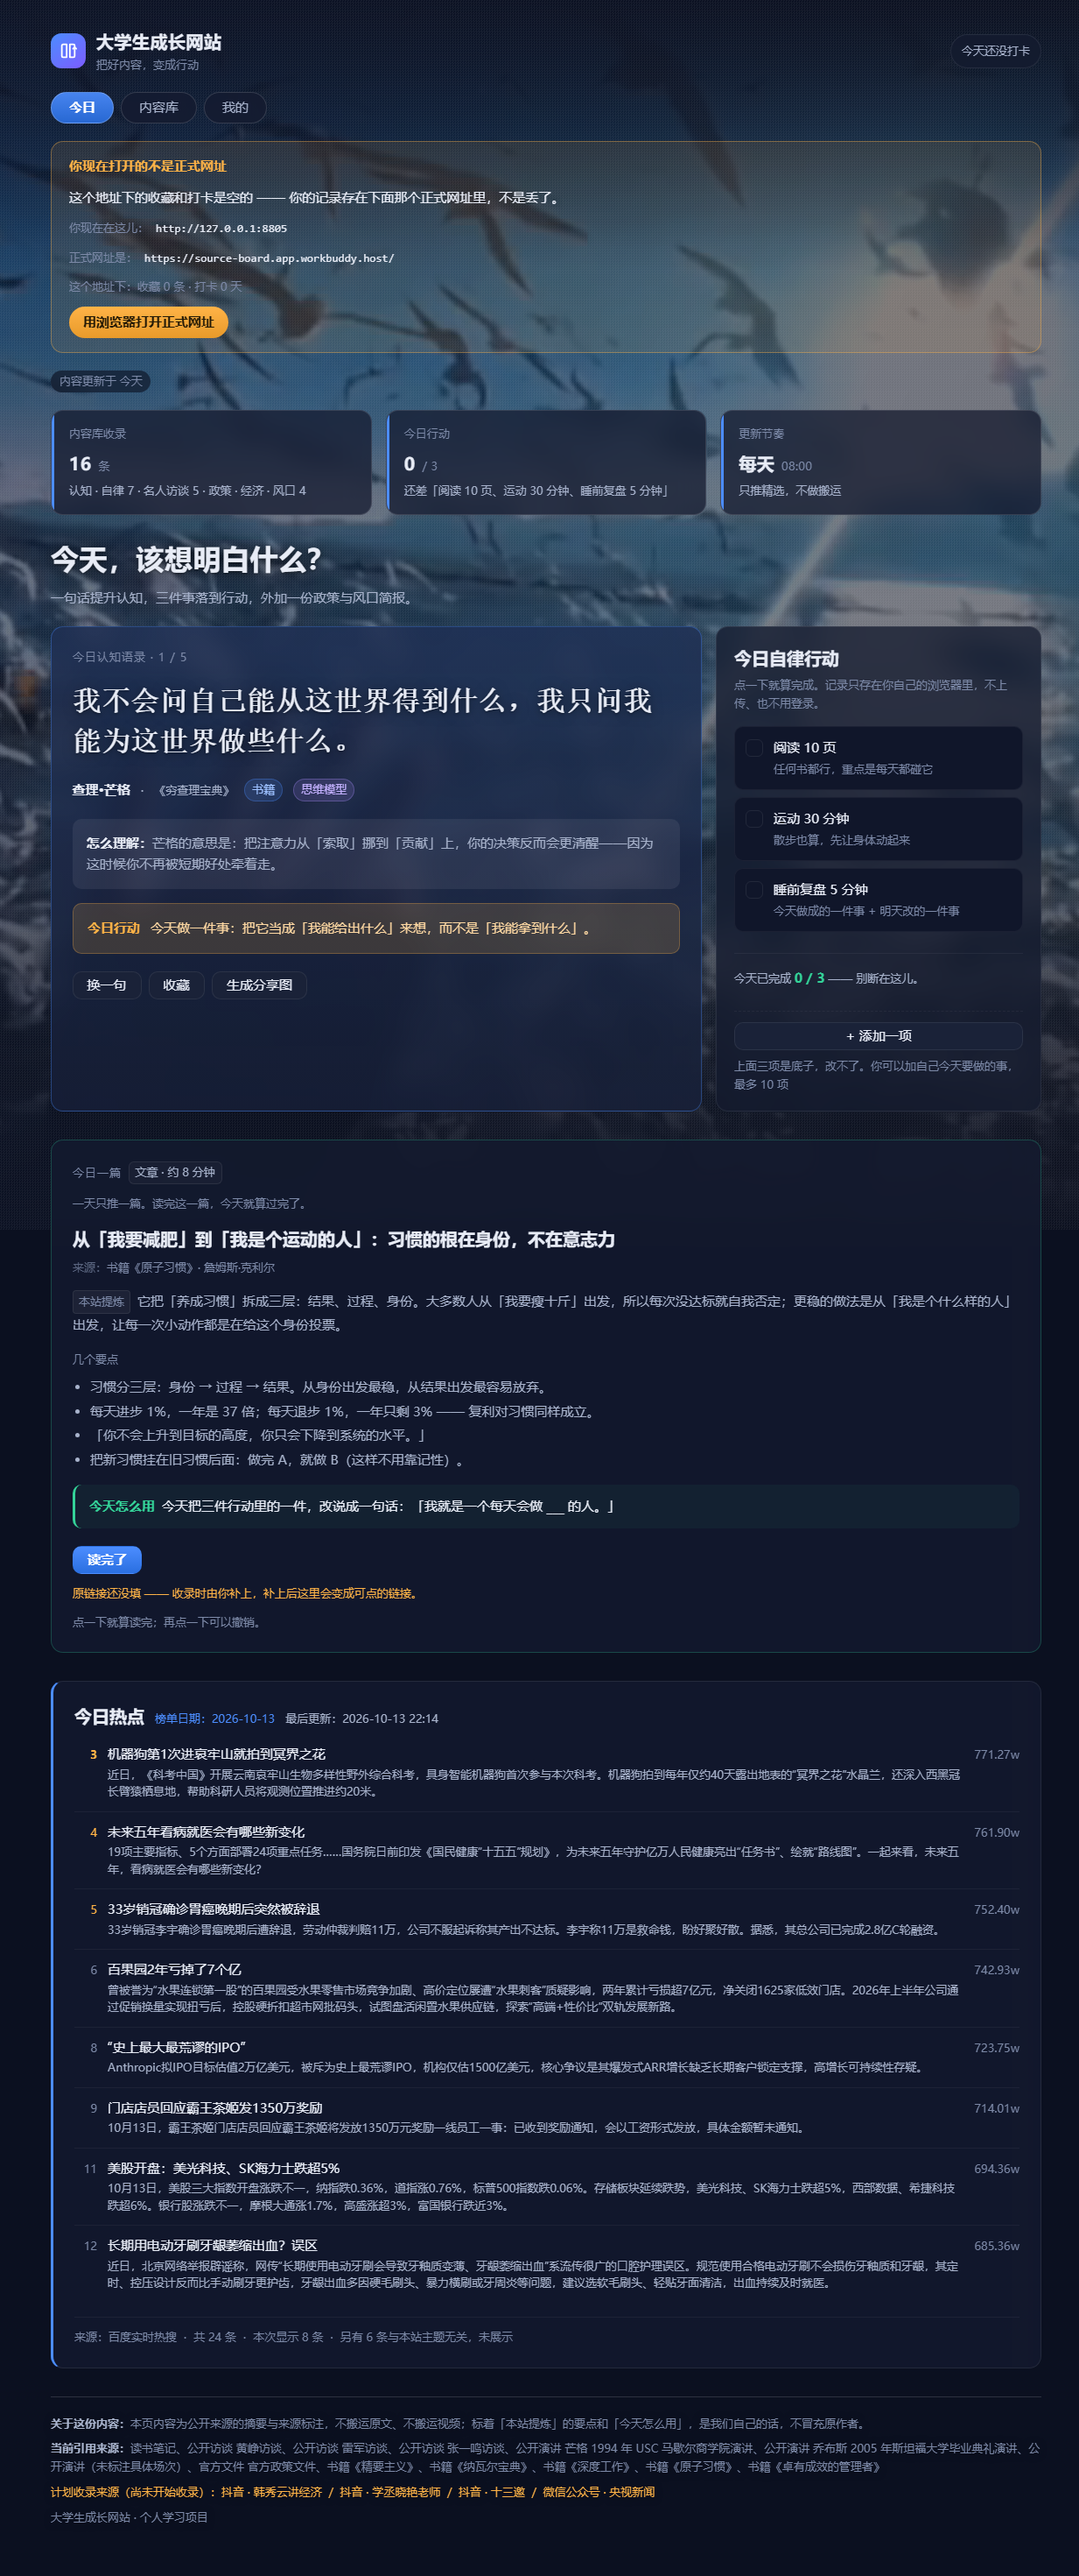
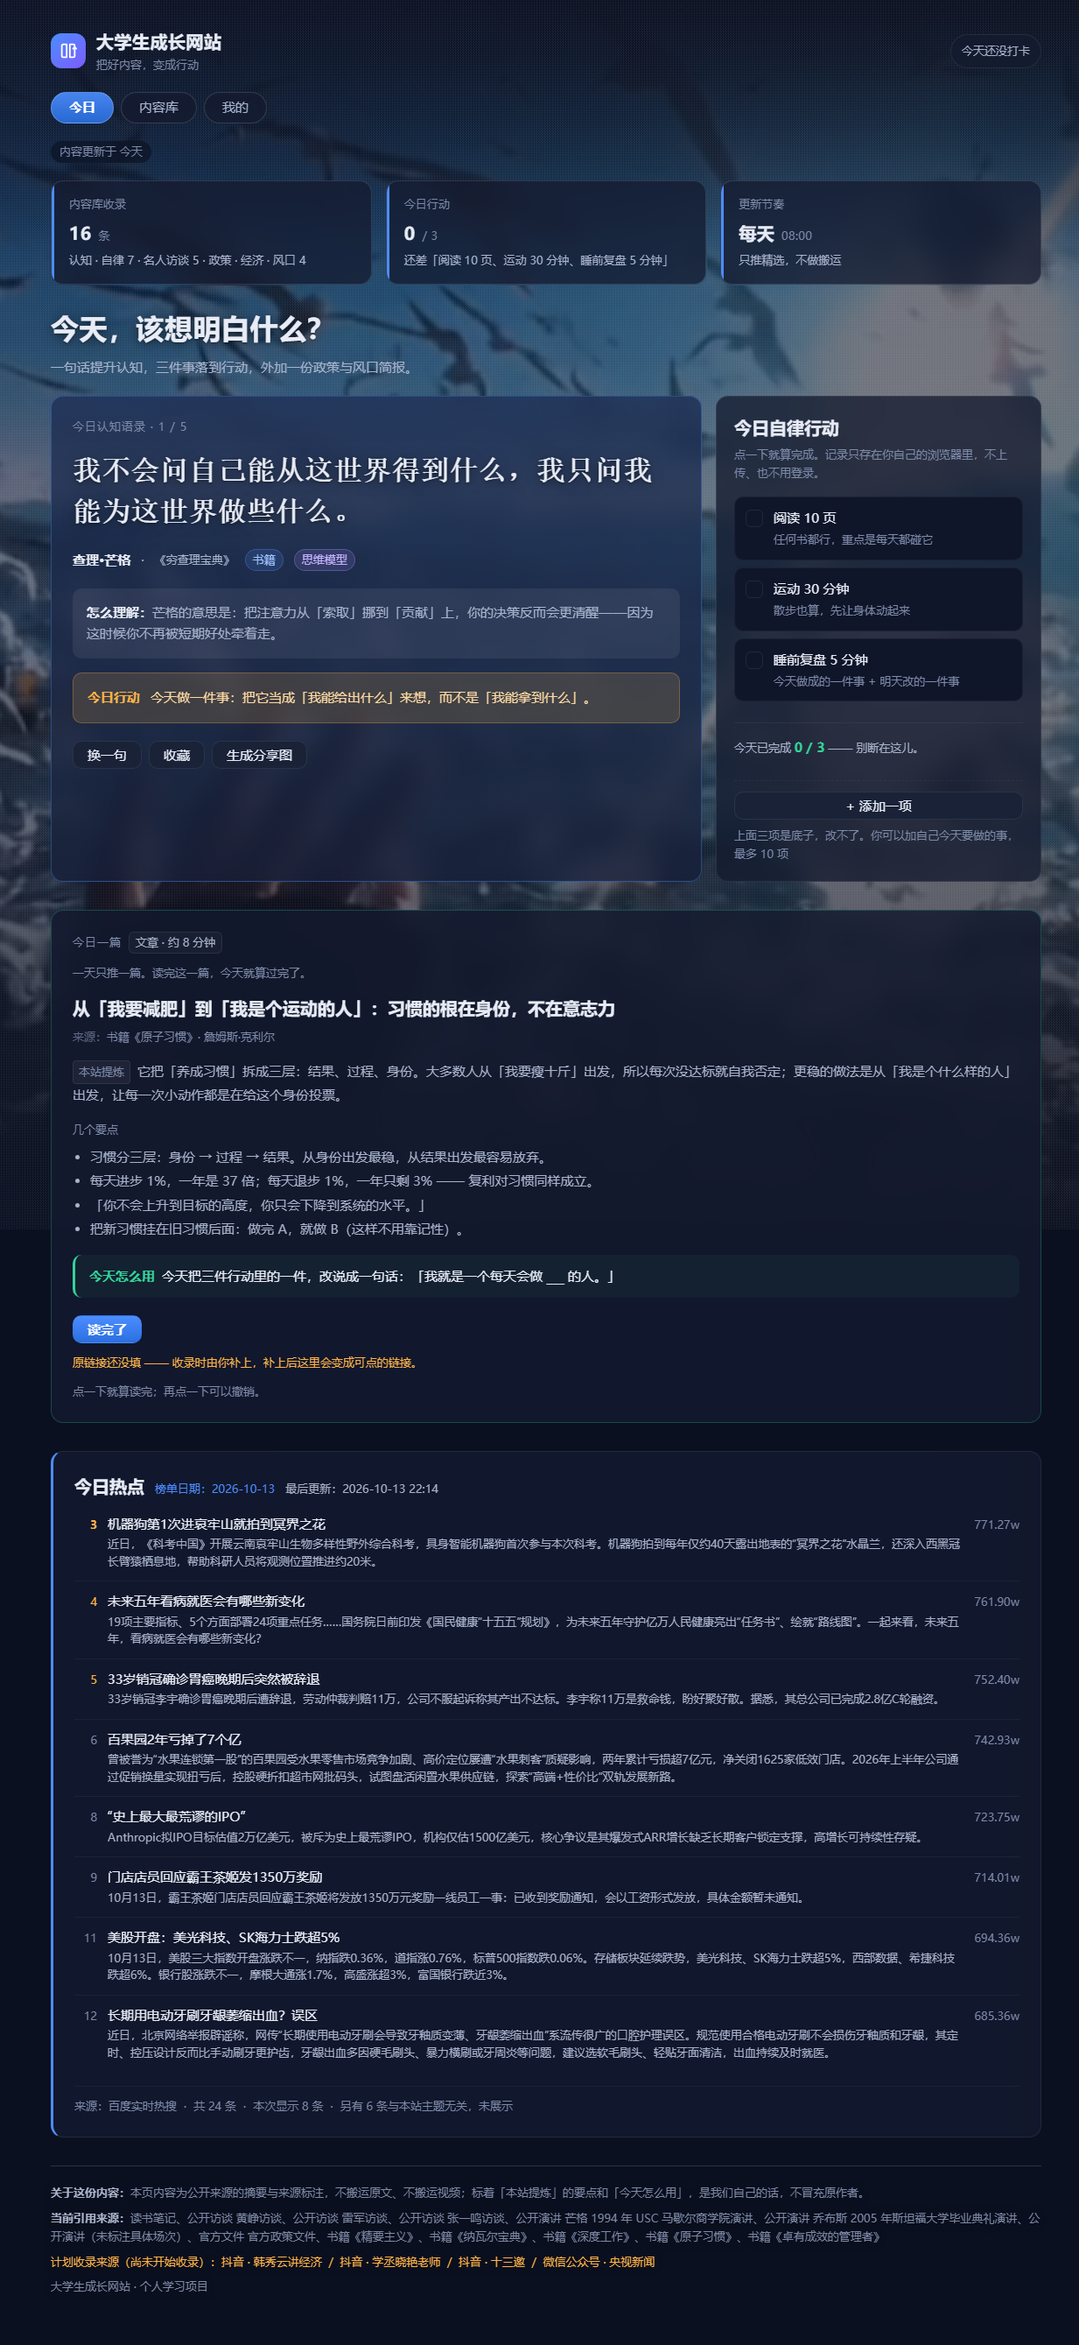
Day 27 补｜第五轮的完整记录：来源改成现算 / 热点内容过滤 / 资源额度截图终于齐了
改了什么
- docs/CHANGELOG.md：新增「十、第五轮」（10.1–10.6），记三件事的来龙去脉与取舍。
- README.md：Day 27 条目补「当晚第五轮」一段（额度截图三样值、来源现算、热点过滤、推送状态）。
- docs/screenshots/day27/day27-9-热点过滤与来源现算.png：重新截一张，把底部
  「当前引用来源」的 13 家来源也框进来（原图只框到热点块底部）。

加了什么（代码在本轮上一提交 b75870e 里，这次只补文档）
- config.js 的 hot.blockWords（五组 64 词）、rules.js 的 filterHotRows()/sourceLabel()、
  cloud.js 的「先滤后取前 N 条」＋ blocked 计数、app.js 的 footSourcesText() 与 renderFoot()、
  data.js 的 footer.src* 四句话 —— 本提交不含代码改动。

为什么要这么做
- 底部「当前引用来源」原来是写死的 5 本书，而库里有 16 条内容、出处 13 家 ——
  页面上印着一个不是算出来的东西，跟今天修掉的另外三处（今天 08:00 / 12 条 / 示例内容）是同一类病。
- 热点拉的是百度热搜原榜（全网都在搜），不是「适合挂在成长网站上的」榜，
  当天前 8 条里 5 条是时政 / 落马 / 战争类，公开站点需要一道过滤。

怎么验证的
- 纯函数（Node 直接读 rules.js + config.js）：当天 30 条 → 留 25 / 挡 5。
- 页面（无头 Edge + CDP 跑线上）：榜上看不到被挡的条目，底部「共 24 条 · 本次显示 8 条 ·
  另有 6 条与本站主题无关，未展示」（24+6=30 闭合）；底部来源 13 家、去重、排序稳定。
- 四种状态（读云端 / 空数据 / 读取失败 / 切回）逐一实测，失败态与顶栏说法一致。
- 发布前检查 12/12 全绿；线上重跑输出与本地一致。

已知问题
- 推送：直连 schannel、本机中转口 502、git ls-remote 502 —— 与第四轮同一类间歇性问题，
  本轮先交给 Jimmy 在本机跑。见 CHANGELOG 第 10.6 节。

diff --git a/docs/CHANGELOG.md b/docs/CHANGELOG.md
@@ -685,6 +685,148 @@ kind / title）。跟额度、到期、用量**一点关系都没有**。
   `git ls-remote origin main` 和 GitHub 接口**两处都**返回
   `d6260414b411417859405fc16367cfac825a72f0` ＝ 本机 `HEAD`，**三处完全一致**。
 
+### 十、第五轮：热点加内容过滤 ＋ 底部「当前引用来源」改成现算 ＋ **资源额度截图终于齐了**（2026-10-13 23:2x）
+
+**10.1　Jimmy 这一轮的三句话**
+
+1. 「底部还有一处「标注不实」修一下，**改成按库里现算**」；
+2. 「**热点块的内容加个过滤**」；
+3. 「@图片 这个是积分截图」。
+
+**10.2　★ 资源额度截图：终于拿到了（Day 27 的最后一张）**
+
+他按下上一轮给的新路径（**设置 → 套餐与积分**，跟挖包挖到的
+「头像 → 积分余额」进的是同一个面板）截了一张，三样东西**全在一张图里**：
+
+| 要什么 | 图上的值 |
+| --- | --- |
+| **额度** | 总剩余积分 **3,221.61** ＝ 套餐基础积分 500 ＋ 平台奖励积分 2,721.61 ＋ 购买积分 0 |
+| **到期日期** | 平台奖励积分 **最近到期时间 2026/10/16 18:23:33**（并带一个「包含即将到期的积分」的红标） |
+| **用量** | 平台奖励积分 **已使用 378.39/3,100（剩余 87%）**；套餐基础积分 已使用 0/500（剩余 100%） |
+
+归档为 `docs/screenshots/day27/day27-2-资源额度.png`。
+→ **Day 27 的交付截图至此全部齐了**（前面 ①②③④⑤⑥⑦⑧⑨ 张都已归档）。
+
+⚠ 有一处值得记下来：**这张图是「设置 → 套餐与积分」，跟我上一轮给的
+「头像 → 积分余额」是不同的入口、同一个面板**。
+所以上一轮那句「路径是猜的」只对了一半 —— 挖包挖出来的键名（`account.credits.*`）是对的，
+但**左侧导航里的原文是「套餐与积分」**，那一条我漏了。
+→ 以后写路径，**左边导航的原文也要一起挖**，不能只挖键名。
+
+**10.3　底部「当前引用来源」：又是一处「写死的名单」**
+
+原来 `data.js` 里写死了 5 本书（穷查理宝典 / 原子习惯 / 活法 / 卓有成效的管理者 / 深度工作）。
+那是内容还只有那几本书的时候留下的。现在库里有 **16 条内容、出处 13 家**
+（书 / 公开演讲 / 公开访谈 / 官方文件 / 读书笔记），那份名单**漏掉的比列出来的还多** ——
+跟今天修掉的另外三处（「今天 08:00」「12 条」「示例内容」）是**同一类病**：
+**页面上印着一个不是算出来的东西。**
+
+**改法还是「现算」，不是把 5 本改成 13 家**：
+
+- `data.js` 只留**怎么说**（一个标签 ＋ 读取中 / 读不到 / 库里空 三种话），**内容一个都不写死**；
+- `app.js` 新增 `footSourcesText()`：**从内容库列表自己那份数据里**汇总去重，
+  用 `rules.js` 的纯函数 `sourceLabel()` 拼显示名，再按中文排序（保证每次刷新顺序一样）；
+- `entryFromRow()` 补 `srcName` / `srcPlatform` 两个字段 ——
+  ⚠ **刻意不复用 `origin`**：`origin` 是「这一条自己的出处写法」（带作者、可能被 detail 覆盖），
+  要的是「来源表原名」，两者不能混（Day 24 那个「节目名当人名」的坑就是这么来的，这次反着用一次）；
+- `loadLibrary()` 那一环**再加一个重画**：`renderMeta(); renderStats(); renderFoot();`
+  —— 同一份数据驱动的显示，必须在「读到新数据」那一刻**一起**重画，不然就是新的自相矛盾。
+
+**实测四种状态**（临时把开发演示区打开，切完立刻关回去）：
+
+| 状态 | 底部那句说的是 |
+| --- | --- |
+| 读云端（正常） | 13 家来源，去重、排好序 |
+| **空数据** | 「内容库还是空的，所以暂时没有引用来源」 |
+| **读取失败** | 「当前引用来源暂时读不到」——**同时顶栏说「内容更新时间暂时读不到」，两处一致** |
+| 切回云端 | 恢复成 13 家 |
+
+**10.4　热点块的内容过滤**
+
+**为什么要加**（上一轮我提出来的）：这一块拉的是**百度实时热搜原榜**，
+是一份「全网都在搜」的榜，不是一份「适合挂在成长网站上」的榜。
+实测当天前 8 条里有 **5 条**是时政 / 官员落马 / 国际冲突类。
+
+**做法（三处分工，照本项目的老规矩）**：
+
+| 放在哪 | 放什么 | 为什么放这儿 |
+| --- | --- | --- |
+| `config.js` | **词表** `hot.blockWords`（分五组：时政机构 / 违纪案件 / 军事冲突 / 伤亡讣闻 / 恶性案件） | 常量只在一个地方；要加要删只动这一处 |
+| `rules.js` | 纯函数 `filterHotRows(rows, words)` | 「算」的活儿归纯函数，可以单独验、不依赖页面和网络 |
+| `cloud.js` | 在 `fetchHotTopics` 里**先过滤、再取前 N 条** | ⚠ 顺序是关键 |
+
+**⚠ 三条设计上的取舍，都写进代码注释了**：
+
+1. **只匹配标题，不匹配摘要。**
+   摘要是百度给的背景说明，民生政策类条目常在摘要里提到「国务院印发…」。
+   一起匹配会把**对大学生真正有用的政策内容**也误伤掉 ——
+   实测当天那条「未来五年看病就医会有哪些新变化」就是标题干净、摘要里带「国务院」，
+   只匹配标题它就留下来了。
+2. **在 cloud.js 滤，不在 app.js 滤。**
+   页面是按 `limit` 先取前 N 条再画的。先取 8 条、画的时候滤掉 3 条，
+   榜上就只剩 5 条 —— 看着像缺了一块，展示数也跟 `limit` 对不上。
+   **先滤、再取前 N 条**，展示数才是满的。
+3. **`total` 的含义变窄了，所以必须同时把 `blocked` 交出来。**
+   加了过滤之后，「共 N 条」说的已经不是「库里这一天有 30 条」，
+   而是「这一天有 25 条**是本站会展示的**」。
+   不说「另有 5 条未展示」，拿它跟百度原榜对照的人会以为**数据缺了一块**。
+   → 25 ＋ 5 ＝ 30，这样两个数才闭合。**同一个数字只说一半，就是新的不实。**
+   （契约变更已写进 `docs/api-contract.md` —— 这是本次唯一一处「老字段含义变了」。）
+
+**另外处理了两个边界**：
+- **滤到一条不剩**时**不画空榜单** —— 空列表看着就是「页面坏了」，
+  给一句实话（「这一天榜单里的内容都跟本站主题无关」）。
+- **加载顺序的坑**：`rules.js` 在 `cloud.js` **后面**才加载，所以
+  `var R = window.GROWTH_RULES` **不能**写在文件开头，只能放在异步回调里取；
+  取不到就**不过滤**（宁可多留一条，也不要因为一个加载问题把整块清空）。
+
+**词表怎么定的**：先按「五类明显不合适的」写，然后用**当天的真数据**跑一遍看结果，
+再补上几个漏掉的（第一版漏了「溺亡」「遇害」「失联」「轻生」，实测发现的）。
+
+**验证（三段都做了）**：
+
+| 验什么 | 怎么验 | 结果 |
+| --- | --- | --- |
+| 纯函数本身 | Node 直接把 `rules.js` 和 `config.js` 读进来跑（不启浏览器） | 当天 30 条 → **留 25 / 挡 5**，挡掉的是：习近平出席…／重庆市原市长黄奇帆被查／湖北一老人被气枪击中身亡／男群演疑似猥亵女演员／女演员钱水明演出期间意外溺亡 |
+| 页面实际效果 | 无头 Edge ＋ CDP 跑线上 | 榜上**看不到被挡的那几条**、底部写着
+「共 24 条 · 本次显示 8 条 · **另有 6 条与本站主题无关，未展示**」（24＋6＝30，闭合） |
+| 底部来源现算 | 同上 ＋ 四种状态切换 | 见 10.3 那张表 |
+
+> ⚠ 纯函数跑出来是「留 25 / 挡 5」，页面跑出来是「留 24 / 挡 6」——
+> **这不是 bug**：库里那份快照是 22:14 抓的，`.tmp/` 里那份 SQL 是更早一次抓的，
+> 两次榜单的标题本来就略有不同。**两个数各自内部都是闭合的**（都是 30 条）。
+
+**★ 顺手又抓出两个「在页面上才看得见」的小毛病**（都是靠**看**出来的，不是靠断言）：
+
+1. 底部来源里出现了 **「读书笔记 读书笔记」**（平台和名字填的是同一个词）、
+   还有 **「公开演讲 公开演讲（未标注具体场次）」**（名字本身就以平台开头）。
+   → 判据改成「**名字已经包含平台就不再加平台**」，两种情况一起盖住。
+2. （这一轮的，跟上一轮那条同源）**文字断言全绿 ≠ 页面对** ——
+   上一轮那个悬空的「·」是这么发现的，这一轮这两处重复也是。**截图必须亲眼看。**
+
+**10.5　收尾**
+
+- 本地提交 `b75870e`（8 个文件）。
+- **发布上线**：sandboxId `7d028aab3c8c4397a6f384868b945c88`（与前几次一致 → 覆盖同一个应用，链接不变）。
+- 发布前 **11/12**（C2 报红 ＝ 线上还是旧版，正常）→ 发布 → **12/12 全绿**；
+  线上重跑一遍，输出与本地一模一样。
+- **推送**：又是「两条路都不通」（直连 `schannel: server closed abruptly`、
+  本机中转口 502）—— 跟上一轮同一类**间歇性**问题。**见 10.6。**
+
+**10.6　关于推送（这一条要留给明天）**
+
+上一轮记的是「先失败、后成功」，结论是「隔一会儿再试」。这一轮**同一时段又断了**：
+
+| 试法 | 报错 |
+| --- | --- |
+| 直连 | `schannel: server closed abruptly (missing close_notify)` |
+| 本机中转口 | `Failed to connect to github.com:443 over proxy 127.0.0.1` |
+| `git ls-remote` | `CONNECT tunnel failed, response 502` |
+
+**今晚到这一步就先停**，按第 7 条把原样报错交给 Jimmy 在本机跑。
+⚠ 明天要观察一件事：**如果这种断连成了常态，那第 7 条第 3 点刚改成
+「由助手直接推」这条规矩就得再想一想** —— 一条天天推不动的规矩，等于没有。
+
 
 ---
 

diff --git a/README.md b/README.md
@@ -183,6 +183,36 @@
     而我们的线上站点 `curl` 是 **200** —— 是**出口代理到 GitHub 的通道**问题，不是断网。
     隔一会儿再试一次**通了**（`c3fd7bb..d626041`）；远程 SHA
     `d6260414b411417859405fc16367cfac825a72f0` ＝ 本机 `HEAD`（`git ls-remote` 与 GitHub 接口**两处都核过**）。
+  **当晚第五轮（他这一轮三句话）：**
+  · **★ 资源额度截图终于拿到了** —— 他按新路径（**设置 → 套餐与积分**，跟挖包挖到的
+    「头像 → 积分余额」是同一个面板）截了一张，**额度 / 到期日期 / 用量三样全在一张图里**：
+    总剩余积分 **3,221.61**（＝ 套餐基础 500 ＋ 平台奖励 2,721.61 ＋ 购买 0）、
+    平台奖励积分**最近到期 2026/10/16 18:23:33**、已使用 **378.39 / 3,100（剩余 87%）**。
+    归档 `docs/screenshots/day27/day27-2-资源额度.png` → **Day 27 的交付截图至此全齐**。
+    ⚠ 教训：上一轮挖包只挖对了**键名**（`account.credits.*`），**左侧导航的原文「套餐与积分」漏了**
+    —— 以后给路径，导航原文也要一起挖出来。
+  · **底部「当前引用来源」又是一处写死的名单**（写死 5 本书，而库里是 16 条内容、出处 13 家）。
+    跟今天修掉的另外三处（「今天 08:00」「12 条」「示例内容」）是一类病。改法照旧是**现算**：
+    `data.js` 只留「怎么说」、**内容一个都不写死**；`app.js` 新增 `footSourcesText()`
+    从内容库列表自己那份数据里汇总去重（纯函数 `sourceLabel()` 拼显示名 ＋ 中文排序）；
+    `loadLibrary()` 那一环**补一次 `renderFoot()`**，让同一份数据驱动的显示**一起**重画。
+    实测四种状态：读云端 **13 家** ／ 空数据「内容库还是空的，所以暂时没有引用来源」／
+    读取失败「暂时读不到」（**与顶栏「内容更新时间暂时读不到」说法一致**）／ 切回云端恢复。
+  · **热点块加了内容过滤** —— 那一块拉的是**百度热搜原榜**（全网都在搜的榜），
+    实测当天前 8 条里 **5 条**是时政 / 官员落马 / 国际冲突。三处分工照老规矩：
+    词表放 `config.js`（`hot.blockWords`，五组 64 词）／纯函数 `filterHotRows()` 放 `rules.js` 可单独验／
+    **在 `cloud.js` 里先过滤、再取前 N 条**（⚠ 顺序是关键：先取 8 再滤就只剩 5 条，看着像缺了一块）。
+    只匹配**标题**不匹配摘要（否则民生政策条目会被误伤）；滤到一条不剩时**不画空榜单**、
+    给一句实话；`total` 含义变窄所以**同时把 `blocked` 交出来**（25 ＋ 5 ＝ 30 才闭合）。
+    实测：纯函数**留 25 / 挡 5**；页面上底部写「共 24 条 · 本次显示 8 条 · **另有 6 条与本站主题无关，未展示**」。
+    ⚠ 又抓出两个**只在页面上才看得见**的小毛病（来源里出现「读书笔记 读书笔记」这种重复）——
+    判据改成「**名字已含平台就不再加平台**」。**文字断言全绿 ≠ 页面对，截图必须亲眼看。**
+  · 提交 `b75870e`（8 个文件）→ 发布上线（链接不变）→ 发布前检查 **12/12 全绿**；
+    截图 `day27-9-热点过滤与来源现算.png`（已亲眼看过）。
+  ⚠ **推送这一轮又是「两条路都不通」**（直连 `schannel: server closed abruptly`、本机中转口 502），
+    与第四轮同一类**间歇性**问题；按 `AGENTS.md` 第 7 条交给 Jimmy 在本机跑。
+    → 留一个观察项：**若断连成了常态，第 7 条刚改成的「由助手直接推」就得重新想**
+    （一条天天推不动的规矩等于没有），记在 [`docs/CHANGELOG.md`](docs/CHANGELOG.md) 第 10.6 节。
 - **Day 26（2026-10-12）｜发布 v1.0 ＋ 一次真实的回滚演练：2 分 17 秒退回去、再恢复。**
   今天两件主事：**① 发布 v1.0** —— 给当前版本打上**附注标签 `v1.0`**（对应 `698450d`），
   整个项目从今天起有了「正式版」这个锚点（之前只有 `day17-stable`）；
